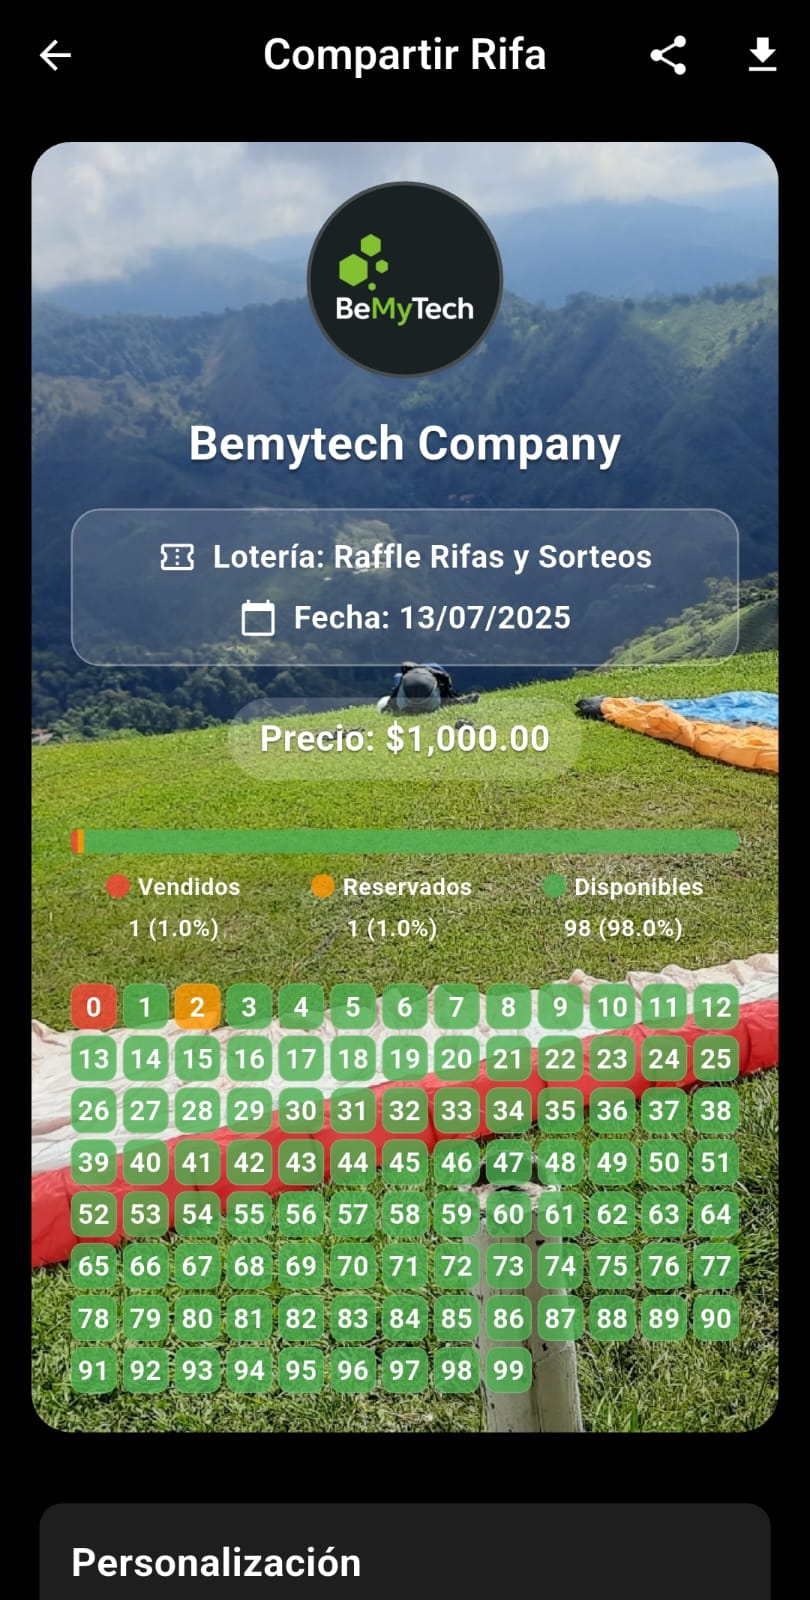
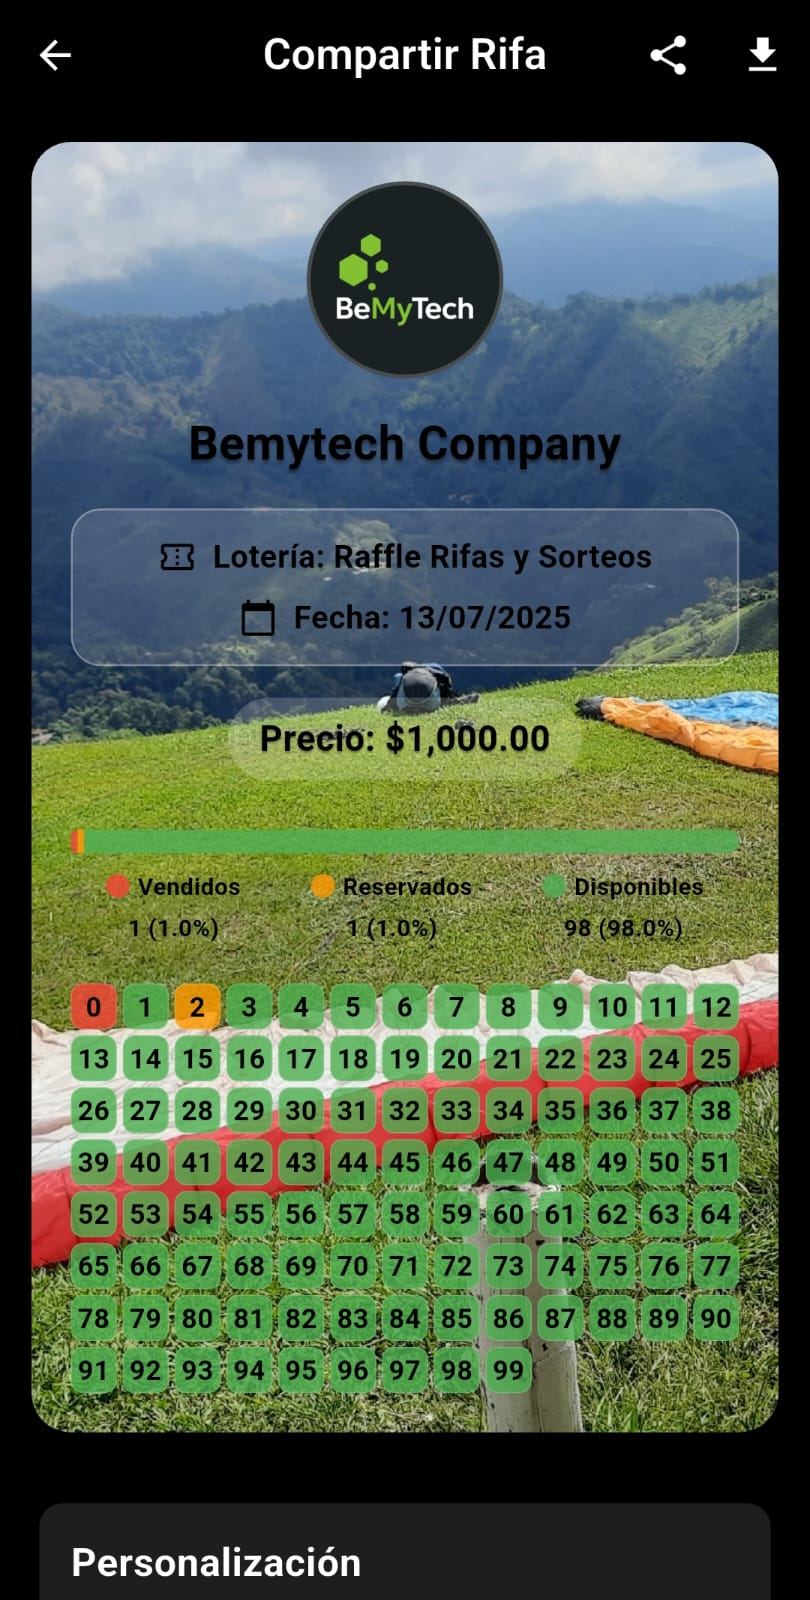
Actualiza el componente PhoneMockup3D para mejorar la organización del layout en tres secciones, ajusta la altura del contenedor y mejora los controles de navegación, incluyendo botones de reproducción, rotación y visualización de características. Se reemplaza una imagen en la carpeta pública.

diff --git a/landing/components/sections/PhoneMockup3D.tsx b/landing/components/sections/PhoneMockup3D.tsx
@@ -141,7 +141,7 @@ const PhoneMockup3D = () => {
   return (
     <div 
       ref={containerRef}
-      className="relative w-full max-w-6xl mx-auto h-[650px] flex items-center justify-center perspective-1000 overflow-hidden"
+      className="relative w-full max-w-6xl mx-auto h-[1000px] perspective-1000 overflow-hidden"
       style={{
         transform: `rotateX(${mousePosition.y * 2}deg) rotateY(${mousePosition.x * 2}deg)`,
         transition: 'transform 0.15s ease-out'
@@ -172,23 +172,66 @@ const PhoneMockup3D = () => {
         />
       </div>
 
-      {/* Contenedor principal 3D */}
-      <div 
-        className="relative w-full h-full flex items-center justify-center"
-        onMouseEnter={() => setIsHovered(true)}
-        onMouseLeave={() => setIsHovered(false)}
-      >
-        {/* Esferas flotantes de características */}
-        {showFeatureOrbs && <FeatureOrbs />}
-        
-        {/* Carousel 3D mejorado */}
+      {/* Layout organizado en 3 secciones */}
+      <div className="relative w-full h-full flex flex-col">
+        {/* Sección 1: Información de la captura actual - Arriba derecha */}
+        <div className="absolute top-10 right-6 z-20">
+          <motion.div
+            key={currentIndex}
+            initial={{ opacity: 0, y: 15 }}
+            animate={{ opacity: 1, y: 0 }}
+            transition={{ duration: 0.3 }}
+            className="text-center max-w-sm"
+          >
+            <div className="bg-black/40 backdrop-blur-sm rounded-xl px-5 py-3 border border-white/10 shadow-xl">
+              <div className="flex items-center justify-center gap-2 mb-1">
+                <div className="w-1.5 h-1.5 bg-raffle-green rounded-full animate-pulse" />
+                <p className="text-white font-bold text-base">
+                  {screenshots[currentIndex].title}
+                </p>
+                <div className="w-1.5 h-1.5 bg-raffle-green rounded-full animate-pulse" />
+              </div>
+              <p className="text-raffle-green text-xs mb-2 leading-relaxed">
+                {screenshots[currentIndex].description}
+              </p>
+              <div className="flex items-center justify-center gap-1.5 text-xs text-gray-400">
+                <span>{currentIndex + 1}/{screenshots.length}</span>
+                <span>•</span>
+                <span>{isAutoPlaying ? 'Auto' : 'Manual'}</span>
+                {isRotating && (
+                  <>
+                    <span>•</span>
+                    <span className="text-raffle-green">Rotando</span>
+                  </>
+                )}
+                {showFeatureOrbs && (
+                  <>
+                    <span>•</span>
+                    <span className="text-raffle-green">Características</span>
+                  </>
+                )}
+              </div>
+            </div>
+          </motion.div>
+        </div>
+
+        {/* Sección 2: Contenedor del teléfono - Centro */}
         <div 
-          className="relative w-80 h-80 preserve-3d z-10"
-          style={{
-            transform: `rotateY(${isRotating ? rotateX : 0}deg)`,
-            transition: 'transform 0.5s ease-out'
-          }}
+          className="flex-1 flex items-center justify-center px-4 "
+          onMouseEnter={() => setIsHovered(true)}
+          onMouseLeave={() => setIsHovered(false)}
         >
+          {/* Esferas flotantes de características */}
+          {showFeatureOrbs && <FeatureOrbs />}
+          
+          {/* Carousel 3D mejorado */}
+          <div 
+            className="relative w-80 h-80 preserve-3d z-10"
+            style={{
+              transform: `rotateY(${isRotating ? rotateX : 0}deg)`,
+              transition: 'transform 0.5s ease-out'
+            }}
+          >
           {getVisibleIndices().map((imageIndex, position) => {
             const isCenter = position === 2
             const distance = position - 2
@@ -335,133 +378,100 @@ const PhoneMockup3D = () => {
             )
           })}
         </div>
-
-        {/* Controles mejorados */}
-        <div className="absolute bottom-6 left-1/2 transform -translate-x-1/2 flex items-center gap-3">
-          {/* Botón anterior */}
-          <motion.button
-            onClick={prevSlide}
-            className="p-2.5 bg-white/10 backdrop-blur-sm rounded-full border border-white/20 hover:bg-raffle-green/20 transition-all duration-300 group"
-            whileHover={{ scale: 1.1 }}
-            whileTap={{ scale: 0.9 }}
-          >
-            <ChevronLeft size={18} className="text-white group-hover:text-raffle-green transition-colors" />
-          </motion.button>
-
-          {/* Indicadores mejorados */}
-          <div className="flex gap-1.5 bg-black/30 backdrop-blur-sm rounded-full px-3 py-2 border border-white/10">
-            {screenshots.map((_, index) => (
-              <motion.button
-                key={index}
-                onClick={() => goToSlide(index)}
-                className={`w-1.5 h-1.5 rounded-full transition-all duration-300 ${
-                  index === currentIndex
-                    ? 'bg-raffle-green scale-125 shadow-lg shadow-raffle-green/50'
-                    : 'bg-white/30 hover:bg-white/50'
-                }`}
-                whileHover={{ scale: 1.5 }}
-                whileTap={{ scale: 0.8 }}
-              />
-            ))}
-          </div>
-
-          {/* Botón de play/pause */}
-          <motion.button
-            onClick={() => setIsAutoPlaying(!isAutoPlaying)}
-            className="p-2.5 bg-white/10 backdrop-blur-sm rounded-full border border-white/20 hover:bg-raffle-green/20 transition-all duration-300 group"
-            whileHover={{ scale: 1.1 }}
-            whileTap={{ scale: 0.9 }}
-          >
-            {isAutoPlaying ? (
-              <Pause size={14} className="text-white group-hover:text-raffle-green transition-colors" />
-            ) : (
-              <Play size={14} className="text-white group-hover:text-raffle-green transition-colors" />
-            )}
-          </motion.button>
-
-          {/* Botón de rotación */}
-          <motion.button
-            onClick={toggleRotation}
-            className={`p-2.5 backdrop-blur-sm rounded-full border transition-all duration-300 group ${
-              isRotating 
-                ? 'bg-raffle-green/20 border-raffle-green/50' 
-                : 'bg-white/10 border-white/20 hover:bg-raffle-green/20'
-            }`}
-            whileHover={{ scale: 1.1 }}
-            whileTap={{ scale: 0.9 }}
-          >
-            <RotateCcw size={14} className={`transition-colors ${
-              isRotating ? 'text-raffle-green' : 'text-white group-hover:text-raffle-green'
-            }`} />
-          </motion.button>
-
-          {/* Botón de mostrar/ocultar esferas */}
-          <motion.button
-            onClick={toggleFeatureOrbs}
-            className={`p-2.5 backdrop-blur-sm rounded-full border transition-all duration-300 group ${
-              showFeatureOrbs 
-                ? 'bg-raffle-green/20 border-raffle-green/50' 
-                : 'bg-white/10 border-white/20 hover:bg-raffle-green/20'
-            }`}
-            whileHover={{ scale: 1.1 }}
-            whileTap={{ scale: 0.9 }}
-          >
-            {showFeatureOrbs ? (
-              <Eye size={14} className="text-raffle-green" />
-            ) : (
-              <EyeOff size={14} className="text-white group-hover:text-raffle-green transition-colors" />
-            )}
-          </motion.button>
-
-          {/* Botón siguiente */}
-          <motion.button
-            onClick={nextSlide}
-            className="p-2.5 bg-white/10 backdrop-blur-sm rounded-full border border-white/20 hover:bg-raffle-green/20 transition-all duration-300 group"
-            whileHover={{ scale: 1.1 }}
-            whileTap={{ scale: 0.9 }}
-          >
-            <ChevronRight size={18} className="text-white group-hover:text-raffle-green transition-colors" />
-          </motion.button>
         </div>
 
-        {/* Información de la captura actual mejorada */}
-        <motion.div
-          key={currentIndex}
-          initial={{ opacity: 0, y: 15 }}
-          animate={{ opacity: 1, y: 0 }}
-          transition={{ duration: 0.3 }}
-          className="absolute top-6 left-1/2 transform -translate-x-1/2 text-center max-w-sm"
-        >
-          <div className="bg-black/40 backdrop-blur-sm rounded-xl px-5 py-3 border border-white/10 shadow-xl">
-            <div className="flex items-center justify-center gap-2 mb-1">
-              <div className="w-1.5 h-1.5 bg-raffle-green rounded-full animate-pulse" />
-              <p className="text-white font-bold text-base">
-                {screenshots[currentIndex].title}
-              </p>
-              <div className="w-1.5 h-1.5 bg-raffle-green rounded-full animate-pulse" />
+        {/* Sección 3: Controles - Abajo con margen reducido */}
+        <div className="relative pb-6 pt-4">
+          <div className="flex flex-col items-center gap-3">
+            {/* Indicadores mejorados */}
+            <div className="flex gap-1.5 bg-black/30 backdrop-blur-sm rounded-full px-3 py-2 border border-white/10">
+              {screenshots.map((_, index) => (
+                <motion.button
+                  key={index}
+                  onClick={() => goToSlide(index)}
+                  className={`w-1.5 h-1.5 rounded-full transition-all duration-300 ${
+                    index === currentIndex
+                      ? 'bg-raffle-green scale-125 shadow-lg shadow-raffle-green/50'
+                      : 'bg-white/30 hover:bg-white/50'
+                  }`}
+                  whileHover={{ scale: 1.5 }}
+                  whileTap={{ scale: 0.8 }}
+                />
+              ))}
             </div>
-            <p className="text-raffle-green text-xs mb-2 leading-relaxed">
-              {screenshots[currentIndex].description}
-            </p>
-            <div className="flex items-center justify-center gap-1.5 text-xs text-gray-400">
-              <span>{currentIndex + 1}/{screenshots.length}</span>
-              <span>•</span>
-              <span>{isAutoPlaying ? 'Auto' : 'Manual'}</span>
-              {isRotating && (
-                <>
-                  <span>•</span>
-                  <span className="text-raffle-green">Rotando</span>
-                </>
-              )}
-              {showFeatureOrbs && (
-                <>
-                  <span>•</span>
-                  <span className="text-raffle-green">Características</span>
-                </>
-              )}
+
+            {/* Botones de control */}
+            <div className="flex items-center gap-3">
+              {/* Botón anterior */}
+              <motion.button
+                onClick={prevSlide}
+                className="p-2.5 bg-white/10 backdrop-blur-sm rounded-full border border-white/20 hover:bg-raffle-green/20 transition-all duration-300 group"
+                whileHover={{ scale: 1.1 }}
+                whileTap={{ scale: 0.9 }}
+              >
+                <ChevronLeft size={18} className="text-white group-hover:text-raffle-green transition-colors" />
+              </motion.button>
+
+              {/* Botón de play/pause */}
+              <motion.button
+                onClick={() => setIsAutoPlaying(!isAutoPlaying)}
+                className="p-2.5 bg-white/10 backdrop-blur-sm rounded-full border border-white/20 hover:bg-raffle-green/20 transition-all duration-300 group"
+                whileHover={{ scale: 1.1 }}
+                whileTap={{ scale: 0.9 }}
+              >
+                {isAutoPlaying ? (
+                  <Pause size={14} className="text-white group-hover:text-raffle-green transition-colors" />
+                ) : (
+                  <Play size={14} className="text-white group-hover:text-raffle-green transition-colors" />
+                )}
+              </motion.button>
+
+              {/* Botón de rotación */}
+              <motion.button
+                onClick={toggleRotation}
+                className={`p-2.5 backdrop-blur-sm rounded-full border transition-all duration-300 group ${
+                  isRotating 
+                    ? 'bg-raffle-green/20 border-raffle-green/50' 
+                    : 'bg-white/10 border-white/20 hover:bg-raffle-green/20'
+                }`}
+                whileHover={{ scale: 1.1 }}
+                whileTap={{ scale: 0.9 }}
+              >
+                <RotateCcw size={14} className={`transition-colors ${
+                  isRotating ? 'text-raffle-green' : 'text-white group-hover:text-raffle-green'
+                }`} />
+              </motion.button>
+
+              {/* Botón de mostrar/ocultar esferas */}
+              <motion.button
+                onClick={toggleFeatureOrbs}
+                className={`p-2.5 backdrop-blur-sm rounded-full border transition-all duration-300 group ${
+                  showFeatureOrbs 
+                    ? 'bg-raffle-green/20 border-raffle-green/50' 
+                    : 'bg-white/10 border-white/20 hover:bg-raffle-green/20'
+                }`}
+                whileHover={{ scale: 1.1 }}
+                whileTap={{ scale: 0.9 }}
+              >
+                {showFeatureOrbs ? (
+                  <Eye size={14} className="text-raffle-green" />
+                ) : (
+                  <EyeOff size={14} className="text-white group-hover:text-raffle-green transition-colors" />
+                )}
+              </motion.button>
+
+              {/* Botón siguiente */}
+              <motion.button
+                onClick={nextSlide}
+                className="p-2.5 bg-white/10 backdrop-blur-sm rounded-full border border-white/20 hover:bg-raffle-green/20 transition-all duration-300 group"
+                whileHover={{ scale: 1.1 }}
+                whileTap={{ scale: 0.9 }}
+              >
+                <ChevronRight size={18} className="text-white group-hover:text-raffle-green transition-colors" />
+              </motion.button>
             </div>
           </div>
-        </motion.div>
+        </div>
       </div>
 
       {/* Efectos de fondo adicionales */}
